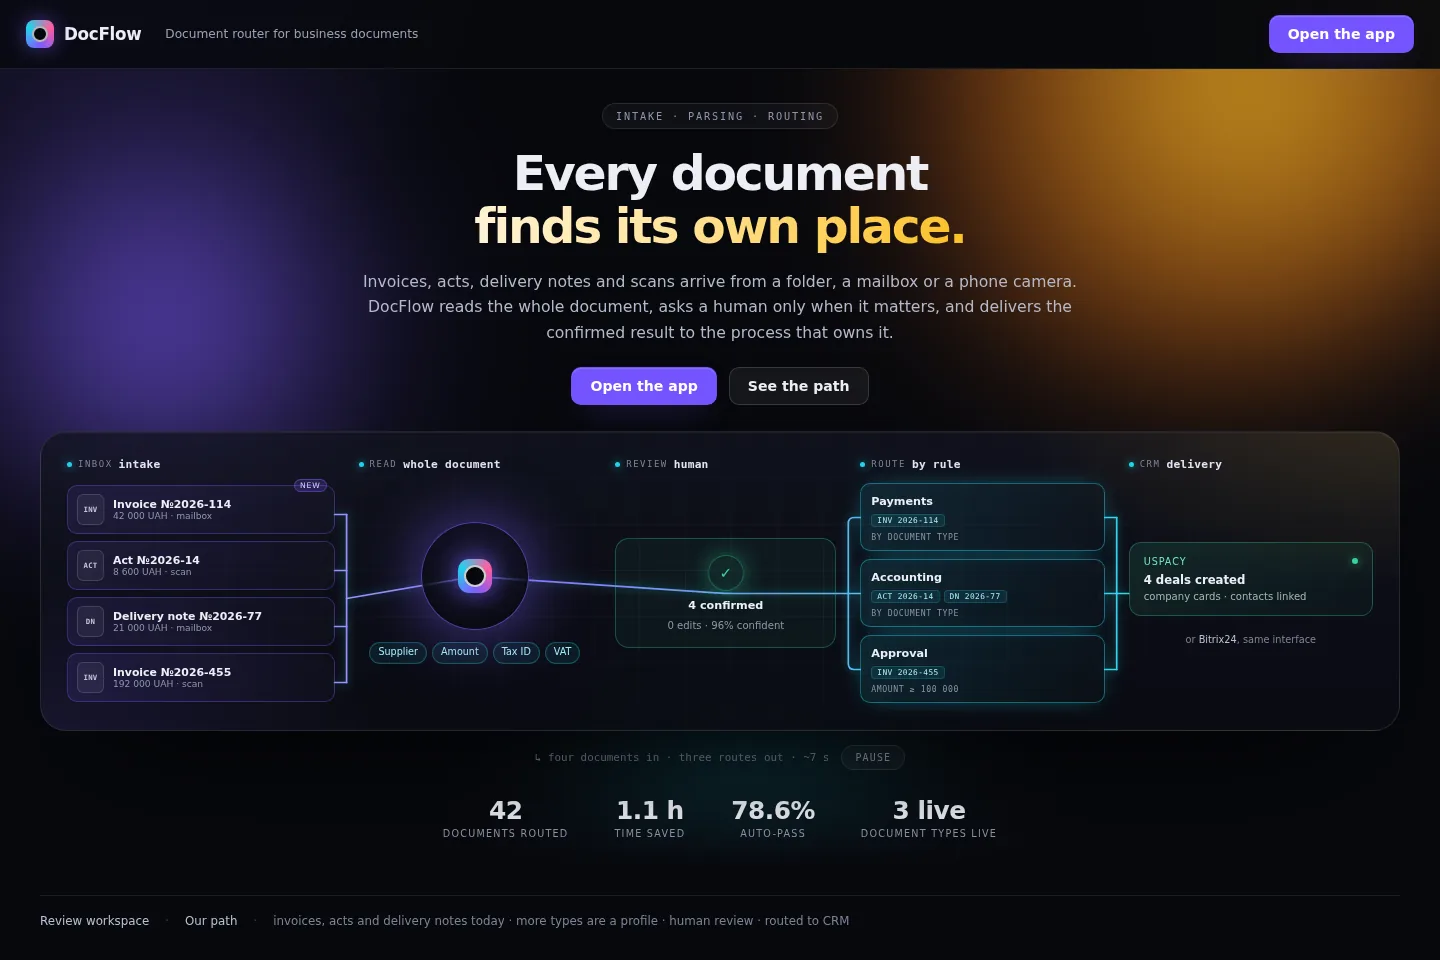
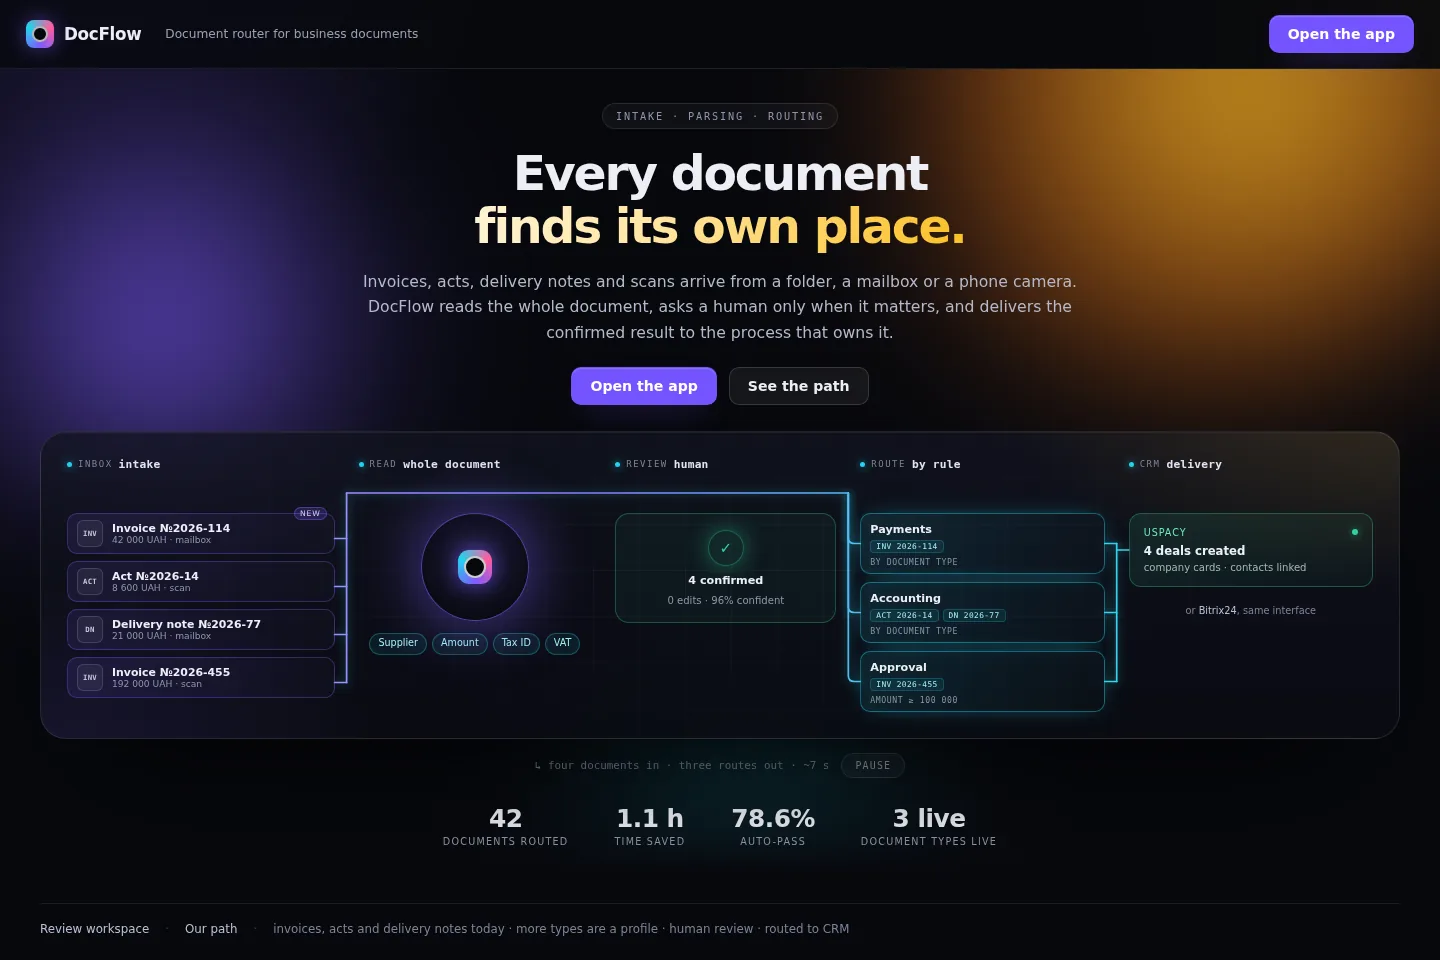
Route the landing laser straight above the blocks

diff --git a/templates/landing.html b/templates/landing.html
@@ -118,7 +118,7 @@
     mask-image: radial-gradient(76% 86% at 50% 50%, #000, transparent 88%);
   }
   .zone { position: relative; z-index: 1; display: flex; flex-direction: column; gap: 12px; min-width: 0; }
-  .zone-body { flex: 1; display: flex; flex-direction: column; justify-content: center; gap: 10px; min-width: 0; }
+  .zone-body { flex: 1; display: flex; flex-direction: column; justify-content: flex-start; gap: 10px; min-width: 0; padding-top: 30px; }
   .zone-head {
     display: flex; align-items: center; gap: 6px;
     font-family: var(--mono); font-size: .56rem; letter-spacing: .17em; text-transform: uppercase; color: #7d8399;
@@ -130,7 +130,7 @@
 
   .doc-stack { display: flex; flex-direction: column; gap: 7px; }
   .doc {
-    position: relative; display: flex; align-items: center; gap: 9px; padding: 8px 9px;
+    position: relative; display: flex; align-items: center; gap: 9px; padding: 6px 9px;
     border-radius: 10px; border: 1px solid rgba(255,255,255,.07); background: rgba(255,255,255,.025);
     opacity: .38; transform: translateY(5px);
     transition:
@@ -146,7 +146,7 @@
   .zone[data-stage="intake"].is-on .doc:nth-child(3) { transition-delay: .14s; }
   .zone[data-stage="intake"].is-on .doc:nth-child(4) { transition-delay: .21s; }
   .doc-ico {
-    flex: none; width: 27px; height: 31px; border-radius: 6px; display: grid; place-items: center;
+    flex: none; width: 26px; height: 27px; border-radius: 6px; display: grid; place-items: center;
     font-family: var(--mono); font-size: .46rem; font-weight: 600; letter-spacing: .04em; color: #c3c8d8;
     background: rgba(255,255,255,.055); border: 1px solid rgba(255,255,255,.13);
   }
@@ -219,7 +219,7 @@
 
   .routes .zone-body { gap: 8px; }
   .route-item {
-    padding: 8px 10px; border-radius: 10px; text-align: left;
+    padding: 6px 9px; border-radius: 10px; text-align: left;
     border: 1px solid rgba(255,255,255,.07); background: rgba(255,255,255,.02);
     opacity: .45; transition: opacity .35s, border-color .35s, background .35s, box-shadow .35s;
   }
@@ -230,7 +230,7 @@
     box-shadow: 0 0 26px -12px rgba(34,211,238,.85);
   }
   .route-chip b { font-size: .7rem; font-weight: 600; }
-  .route-docs { display: flex; flex-wrap: wrap; gap: 4px; margin-top: 6px; }
+  .route-docs { display: flex; flex-wrap: wrap; gap: 4px; margin-top: 4px; }
   .route-docs span {
     font-family: var(--mono); font-size: .49rem; letter-spacing: .05em;
     padding: 1px 5px; border-radius: 4px;
@@ -240,7 +240,7 @@
   .route-item.is-hit .route-docs span { opacity: 1; transform: none; }
   .route-item.is-hit .route-docs span:nth-child(2) { transition-delay: .08s; }
   .route-why {
-    display: block; margin-top: 5px;
+    display: block; margin-top: 4px;
     font-family: var(--mono); font-size: .51rem; letter-spacing: .07em;
     text-transform: uppercase; color: #8b93a8;
     opacity: 0; transition: opacity .35s;
@@ -325,6 +325,7 @@
     .core-chips { justify-content: flex-start; }
     .review-node { flex-direction: row; text-align: left; }
     .doc-stack { gap: 7px; }
+    .zone-body { padding-top: 0; }
     .flow, .flow-dot { display: none; }
   }
   @media (max-width: 640px) {
@@ -530,7 +531,7 @@ function initScene() {
   const TRAVEL = 2100;
   const BRANCH_STEP = 230;
   const BRANCH_DUR = 210;
-  const FORK = BRANCH_STEP * 2 + BRANCH_DUR;
+  const FORK = BRANCH_STEP * 2 + BRANCH_DUR + 100;
   const MERGE = 340;
   const HOLD = 1500;
   const RESET = 450;
@@ -630,8 +631,7 @@ function initScene() {
     const intakeBusX = readBox.l - 12;
     const forkX = routeBox.l - 12;
     const mergeBusX = deliverBox.l - 12;
-    const busY = (docs[0].t + docs[docs.length - 1].b) / 2;
-    const midY = chips[1].cy;
+    const railY = Math.min(docs[0].t, core.t, review.t, chips[0].t, crm.t) - 20;
 
     const set = (item, points, radius) => {
       const d = rounded(points, radius);
@@ -644,25 +644,23 @@ function initScene() {
     docs.forEach((doc, k) => {
       set(parts.docLeads[k], [{ x: doc.r, y: doc.cy }, { x: intakeBusX, y: doc.cy }], 0);
     });
-    set(parts.intakeBus, [{ x: intakeBusX, y: docs[0].cy }, { x: intakeBusX, y: docs[docs.length - 1].cy }], 0);
-    set(parts.trunk, [
-      { x: intakeBusX, y: busY },
-      { x: core.cx, y: core.cy },
-      { x: review.cx, y: review.cy },
-      { x: forkX, y: midY },
-    ], 10);
+    set(parts.intakeBus, [{ x: intakeBusX, y: railY }, { x: intakeBusX, y: docs[docs.length - 1].cy }], 0);
+    set(parts.trunk, [{ x: intakeBusX, y: railY }, { x: forkX, y: railY }], 0);
     chips.forEach((chip, k) => {
-      const flat = Math.abs(chip.cy - midY) < 1;
-      const points = flat
-        ? [{ x: forkX, y: midY }, { x: chip.l, y: midY }]
-        : [{ x: forkX, y: midY }, { x: forkX, y: chip.cy }, { x: chip.l, y: chip.cy }];
-      set(parts.branches[k], points, 8);
+      set(parts.branches[k], [
+        { x: forkX, y: railY },
+        { x: forkX, y: chip.cy },
+        { x: chip.l, y: chip.cy },
+      ], 8);
     });
     chips.forEach((chip, k) => {
       set(parts.mergeLeads[k], [{ x: chip.r, y: chip.cy }, { x: mergeBusX, y: chip.cy }], 0);
     });
-    set(parts.mergeBus, [{ x: mergeBusX, y: chips[0].cy }, { x: mergeBusX, y: chips[chips.length - 1].cy }], 0);
-    set(parts.deliver, [{ x: mergeBusX, y: midY }, { x: crm.l, y: midY }], 0);
+    set(parts.mergeBus, [
+      { x: mergeBusX, y: Math.min(chips[0].cy, crm.cy) },
+      { x: mergeBusX, y: Math.max(chips[chips.length - 1].cy, crm.cy) },
+    ], 0);
+    set(parts.deliver, [{ x: mergeBusX, y: crm.cy }, { x: crm.l, y: crm.cy }], 0);
 
     const span = Math.max(1, forkX - intakeBusX);
     geo.marks = {

diff --git a/docs/design-system.md b/docs/design-system.md
@@ -221,18 +221,18 @@ WCAG AA при каждом размере, в котором использов
 который можно остановить.
 
 - Поток показан лазером: линия не нарисована заранее — её рисует сам луч по ходу прогона.
-  В начале цикла в сцене нет ни одной линии; луч выходит из inbox, проходит через чтение и
-  проверку, делится на три маршрута и собирается в CRM. После удержания линия гаснет вместе
-  со сценами.
+  Шина идёт прямой горизонтальной линией над блоками, ровно под подписями стадий, и ни одна
+  карточка её не пересекает: inbox поднимает луч к шине, на route шина спускается в три
+  назначения, затем собирается в CRM. Блоки выровнены по одной верхней линии под шиной.
 - В intake лежат четыре документа трёх типов (invoice, act, delivery note) с суммой и
   источником. Распределение видно в маршруте: Payments получает счёт по типу, Accounting —
   акт и накладную по типу, Approval — счёт на 192 000 UAH по правилу суммы (≥ 100 000).
   Маршруты загораются по очереди, у каждого появляются свои документы и причина.
-- Таймлайн цикла: 620 ms документы входят, 300 ms лазер собирает inbox, 240 ms шина,
-  2 100 ms проход через чтение и проверку, 670 ms развилка на три маршрута по 200 ms,
-  340 ms слияние и CRM, 1 500 ms удержание, 450 ms сброс, 600 ms пауза. Итого ≈ 6,8 s.
-- Мобильный (≤ 1100): линия не рисуется, сцена складывается в колонку, и тот же таймлайн
-  зажигает стадии по очереди; историю несут порядок блоков и подписи.
+- Таймлайн цикла: 620 ms документы входят, 300 ms луч собирает inbox, 240 ms шина,
+  2 100 ms проход, 770 ms развилка на три маршрута по 200 ms, 340 ms слияние и CRM,
+  1 500 ms удержание, 450 ms сброс, 600 ms пауза. Итого ≈ 6,9 s.
+- Мобильный (≤ 1100): линия и шина не рисуются, сцена складывается в колонку, и тот же
+  таймлайн зажигает стадии по очереди; историю несут порядок блоков и подписи.
 - Управление: кнопка Pause/Play рядом с подписью; прогон стартует только когда сцена в кадре
   (`IntersectionObserver`) и останавливается при скрытой вкладке. Это требование WCAG 2.2.2
   для автостартующего движения дольше пяти секунд.
